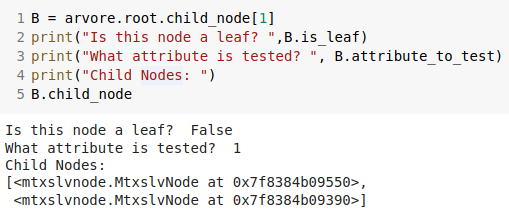
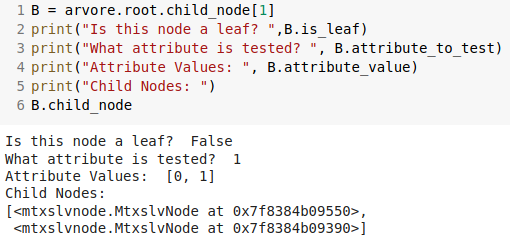
finished

Changed region(s): [[0.0295, 0.0, 1.0, 0.4679], [0.0, 0.5505, 0.7367, 0.9633]]

diff --git a/_posts/2020-05-12-id3_part_3.md b/_posts/2020-05-12-id3_part_3.md
@@ -199,7 +199,7 @@ The dataset related to this concept can be seen below.
 | 1 | 1 | 1 |
 
 
-What I will do now on is to use the Decision Tree class I created to infer the concept of _y_ Since Decision Trees can, at least, represent any boolean function, we can be sure the algorithm will find out rule that generated the dataset. Such resulting tree may look like the tree below:
+What I will do now on is to use the Decision Tree class I created to infer the concept of _y_ Since Decision Trees can, at least, represent any boolean function, we can be sure the algorithm will find out rule that generated the dataset. Such resulting tree may look like the tree below. Let's try to breafily read it. If A equals 0, then we go down to the leaf with label 1. Otherwise, if A equals 1, we need to assure B equals 1 as well, in order to go to label 1; else, we find ourselves with the label 0. Notice is just another way of reading the boolean concept defined above.
 
 <figure>
   <img src="/images/posts_images/2020-05-12-id3_part_3/MyDecisionTree.png" alt="boolean decision tree">
@@ -280,8 +280,28 @@ What about the other root child node? It can only be the node that tests the att
   <figcaption>Some queries to B node.</figcaption>
 </figure>>
 
+As can be seen, the attribute tested by the node is the second one (0 based list), which matches with that one I named B. It has two possible values, zero and one.
+
+Ok, we can see the python class created a tree like that one in the picture so far. Let's check the last two child nodes.
+
+<figure>
+  <img src="/images/posts_images/2020-05-12-id3_part_3/B_zero.png" alt="B zero node">
+  <figcaption>First  Leaf down B node.</figcaption>
+</figure>>
+
+<figure>
+  <img src="/images/posts_images/2020-05-12-id3_part_3/B_one.png" alt="B one node">
+  <figcaption>Second Leaf down B node.</figcaption>
+</figure>>
+
+We see both these leaves has -1 value to the attribute to be tested and attribute value (actually, all leaves have this value, because of the implemented id3 algorithm).
+
+The leaf reached when B equals 1 (and A equals 1) has label 1. The leaf reached when B equals 0 (and A equals 1) has label 0. They do not have child node as well, and it proves the class inner workings.
+
 # Final Discussion
 
-When I applied the algorithm to the project test dataset, I got ~27% of accuracy (that's pretty low, sadly). 
+Of course, the example above is a very special case (boolean concepts with well known dataset). But it proves the class works.
 
-There's a bug, also. In the instance ```[4, 9, 6, 6, 3, 9, 8, 2, 8, 7, 6, 6, 0, 8, 4, 7]```, the bug says the value 6 is not in a list. 
+When I applied the algorithm to the project test dataset, I got ~27% of accuracy (that's pretty low, sadly). The pre-prunning technique (chi-square test based) would be useful because it would bring this percentage up.
+
+There's a bug, also. If we try to evaluate the instance ```[4, 9, 6, 6, 3, 9, 8, 2, 8, 7, 6, 6, 0, 8, 4, 7]```, the console will throw an Exception that says the value 6 is not in a list. 
